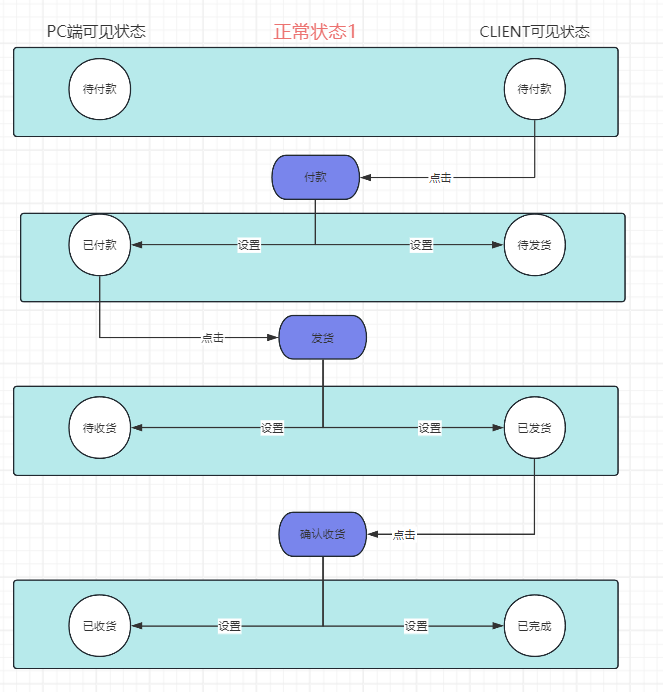
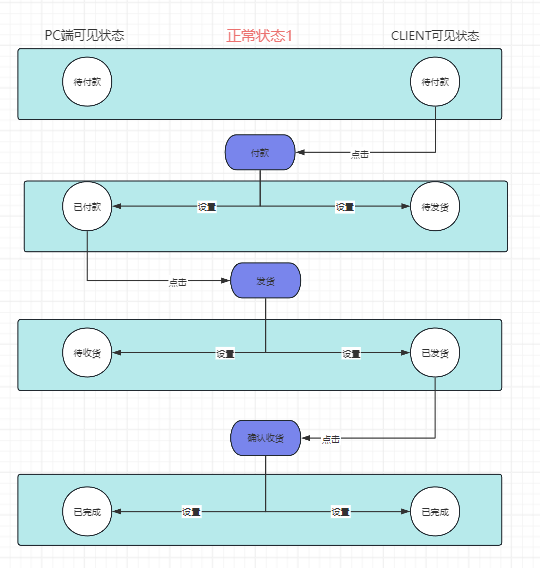
(feat)-2024/3/25: 订单完成，订单评论模块BUG

Changed region(s): [[0.0, 0.0299, 0.9481, 0.6884], [0.0, 0.7183, 0.9481, 0.9877]]

diff --git a/back-end/application/src/main/java/com/app/domain/order/service/OrderService.java b/back-end/application/src/main/java/com/app/domain/order/service/OrderService.java
@@ -112,7 +112,7 @@ public class OrderService extends AbstractService<OrderMapper, OrderEntity> {
         //如果允许关闭订单 , 1.订单中的商品如果存在数量加回来 2.订单中的商品不存在则忽略
         List<OrderDetailsEntity> details = detailsService.getDetailsByOrderId(one.getId());
         details.forEach(t ->{
-            ProductSkuEntity sku = skuService.getById(t.getProductSku().getProductId(), false);
+            ProductSkuEntity sku = skuService.getById(t.getProductSku().getId(), false);
             if (!Objects.isNull(sku)) {
                 //存在
                 skuService.addSkuStock(sku.getId(),t.getSkuNumber());
@@ -148,11 +148,13 @@ public class OrderService extends AbstractService<OrderMapper, OrderEntity> {
     @Transactional(rollbackFor = RuntimeException.class)
     public Boolean refundOrder(String orderId,UserEntity user) {
         OrderState refund = OrderState.REFUND;
-        OrderEntity one = getOne(orderId, refund,user);
+        //管理员做的事不需要User
+        OrderEntity one = getOneByAdmin(orderId, refund,user);
         one.setState(refund);
         //获取账单总余额
         BigDecimal price = detailsService.getProductTotalPrice(one.getId());
-        WalletEntity wallet = walletService.getOne(user.getId());
+        //获取订单人的钱包
+        WalletEntity wallet = walletService.getOne(one.getUserId());
         //余额 + 商品总价钱
         wallet.setBalance(wallet.getBalance().add(price));
         //更新订单 && 钱包
@@ -161,7 +163,8 @@ public class OrderService extends AbstractService<OrderMapper, OrderEntity> {
 
     public Boolean sendOrder(String orderId, UserEntity loginUser) {
         OrderState send = OrderState.SHIP_ORDER;
-        OrderEntity one = getOne(orderId, send, loginUser);
+        //不需要获取管理员用户
+        OrderEntity one = getOneByAdmin(orderId, send, loginUser);
         one.setState(send);
         return this.updateById(one);
     }
@@ -175,7 +178,6 @@ public class OrderService extends AbstractService<OrderMapper, OrderEntity> {
         return this.updateById(one) && detailsService.updateBatchById(list);
     }
 
-    //todo 关闭订单数量加回来
 
     public Boolean deleteOrder(String orderId, UserEntity loginUser) {
         OrderState delete = OrderState.DELETE_ORDER;
@@ -204,17 +206,17 @@ public class OrderService extends AbstractService<OrderMapper, OrderEntity> {
     }
 
 
-    public Page<OrderEntity> getWaitPay(String loginUserId) {
-        return getOrderByUserId(loginUserId,OrderEntity::getState,OrderState.PLACE_ORDER.name());
+    public Page<OrderEntity> getWaitPay(UserEntity user) {
+        return getOrderByUserId(user,OrderEntity::getState,OrderState.PLACE_ORDER.name());
     }
 
-    public Page<OrderEntity> getWaitReceive(String loginUserId) {
-        return getOrderByUserId(loginUserId,OrderEntity::getState,OrderState.SHIP_ORDER.name());
+    public Page<OrderEntity> getWaitReceive(UserEntity user) {
+        return getOrderByUserId(user,OrderEntity::getState,OrderState.SHIP_ORDER.name());
     }
 
-    public Page<OrderEntity> getWaitEvaluate(String loginUserId) {
+    public Page<OrderEntity> getWaitEvaluate(UserEntity user) {
         //查询出当前用户已经收货的商品
-        Page<OrderEntity> page = getOrderByUserId(loginUserId, OrderEntity::getState, OrderState.CONFIRM_RECEIPT.name());
+        Page<OrderEntity> page = getOrderByUserId(user, OrderEntity::getState, OrderState.CONFIRM_RECEIPT.name());
         List<OrderEntity> list = page.getRecords().
                 stream().
                 //找出订单详情中未评价的商品
@@ -234,8 +236,21 @@ public class OrderService extends AbstractService<OrderMapper, OrderEntity> {
         return entity;
     }
 
-    private Page<OrderEntity> getOrderByUserId(String userId, SFunction<OrderEntity,?> sFunction, Object val) {
-        Page<OrderEntity> page = this.lambdaQuery().eq(OrderEntity::getUserId, userId).eq(sFunction, val).page(CommonPageRequestUtils.defaultPage());
+    private OrderEntity getOneByAdmin(String orderId,OrderState nextState,UserEntity user) {
+        OrderEntity entity = this.lambdaQuery().eq(OrderEntity::getId, orderId).one();
+        AssertUtils.notNull(entity, "订单不存在");
+        orderAction.doAction(entity.getState(), nextState, user.getRole());
+        return entity;
+    }
+
+    private Page<OrderEntity> getOrderByUserId(UserEntity user, SFunction<OrderEntity,?> sFunction, Object val) {
+        Page<OrderEntity> page;
+        //管理员获取所有的
+        if (Role.ADMIN.equals(user.getRole())) {
+            page = this.lambdaQuery().eq(sFunction, val).page(CommonPageRequestUtils.defaultPage());
+        }else {
+            page = this.lambdaQuery().eq(OrderEntity::getUserId, user.getId()).eq(sFunction, val).page(CommonPageRequestUtils.defaultPage());
+        }
         //查询订单详情
         page.getRecords().forEach(t -> t.setOrderDetails(detailsService.getDetailsByOrderId(t.getId())));
         return page;

diff --git a/back-end/application/src/main/java/com/app/domain/order/controller/OrderController.java b/back-end/application/src/main/java/com/app/domain/order/controller/OrderController.java
@@ -95,20 +95,20 @@ public class OrderController extends Controller {
     @GetMapping("/getWaitPay")
     @Operation(summary = "获取待付款的商品")
     public RespEntity<Page<OrderEntity>> getWaitPay() {
-        return RespEntity.success(orderService.getWaitPay(LoginUser.getLoginUserId()));
+        return RespEntity.success(orderService.getWaitPay(LoginUser.getLoginUser()));
     }
 
     //待收货
     @GetMapping("/getWaitReceive")
     @Operation(summary = "获取待收货的商品")
     public RespEntity<Page<OrderEntity>> getWaitReceive() {
-        return RespEntity.success(orderService.getWaitReceive(LoginUser.getLoginUserId()));
+        return RespEntity.success(orderService.getWaitReceive(LoginUser.getLoginUser()));
     }
 
     //待评价
     @GetMapping("/getWaitEvaluate")
     @Operation(summary = "获取待评价的商品")
     public RespEntity<Page<OrderEntity>> getWaitEvaluate() {
-        return RespEntity.success(orderService.getWaitEvaluate(LoginUser.getLoginUserId()));
+        return RespEntity.success(orderService.getWaitEvaluate(LoginUser.getLoginUser()));
     }
 }

diff --git a/back-end/application/src/main/java/com/app/domain/order/enmus/OrderState.java b/back-end/application/src/main/java/com/app/domain/order/enmus/OrderState.java
@@ -39,7 +39,7 @@ public enum OrderState implements IEnum<String> {
      * 表示买家确认收到商品的操作。
      */
     @Schema(description = "确认收货")
-    CONFIRM_RECEIPT(POrderState.RECEIVED,COrderState.COMPLETED),
+    CONFIRM_RECEIPT(POrderState.COMPLETED,COrderState.COMPLETED),
 
     /**
      * 关闭订单
@@ -67,7 +67,7 @@ public enum OrderState implements IEnum<String> {
      * 删除订单
      * 买家删除自己的订单。
      */
-    @Schema(description = "已完成")
+    @Schema(description = "删除订单")
     DELETE_ORDER(POrderState.DELETED_ORDER,COrderState.DELETED_ORDER),
     ;
 
@@ -117,8 +117,8 @@ public enum OrderState implements IEnum<String> {
          * 已收货
          * 表示买家已确认收货，订单交易接近完成。
          */
-        @Schema(description = "已收货")
-        RECEIVED,
+        @Schema(description = "已完成")
+        COMPLETED,
 
         /**
          * 已关闭

diff --git a/back-end/application/src/main/java/com/app/domain/comment/service/ProductCommentService.java b/back-end/application/src/main/java/com/app/domain/comment/service/ProductCommentService.java
@@ -36,7 +36,8 @@ public class ProductCommentService extends AbstractService<ProductCommentMapper,
         AssertUtils.notNull(productDetail, "商品不存在");
         AssertUtils.assertTrue(orderService.hasProduct(loginUserId, param.getProductId()), "未改买的商品无法评论");
         param.setUserId(loginUserId);
-        return this.save(param);
+        //修改顶单为已评价
+        return this.save(param) ;
     }
 
     public Page<ProductCommentEntity> queryAllComment(String productId) {

diff --git a/back-end/application/src/main/java/com/app/domain/product/service/ProductSkuService.java b/back-end/application/src/main/java/com/app/domain/product/service/ProductSkuService.java
@@ -47,6 +47,6 @@ public class ProductSkuService extends AbstractService<ProductSkuMapper, Product
     public void checkStock(Integer stock, Integer num) {
         AssertUtils.assertTrue(num > 0, "数量必须要大于0");
         //如果库存数量 < 要减的数量  表示库存不足
-        AssertUtils.assertTrue( stock > num, "库存不足");
+        AssertUtils.assertTrue( stock >= num, "库存不足");
     }
 }

diff --git a/back-end/application/src/main/java/com/app/domain/comment/entity/ProductCommentEntity.java b/back-end/application/src/main/java/com/app/domain/comment/entity/ProductCommentEntity.java
@@ -61,6 +61,7 @@ public class ProductCommentEntity extends Entity {
     @Schema(description = "商品ID")
     @NotBlank(message = "商品ID不能为空",groups = INSERT.class)
     @JsonView(INSERT.class)
+    //todo 商品评论不正确是针对商品的还是什么？？？？
     private String productId;
 
     @TableField(exist = false)
